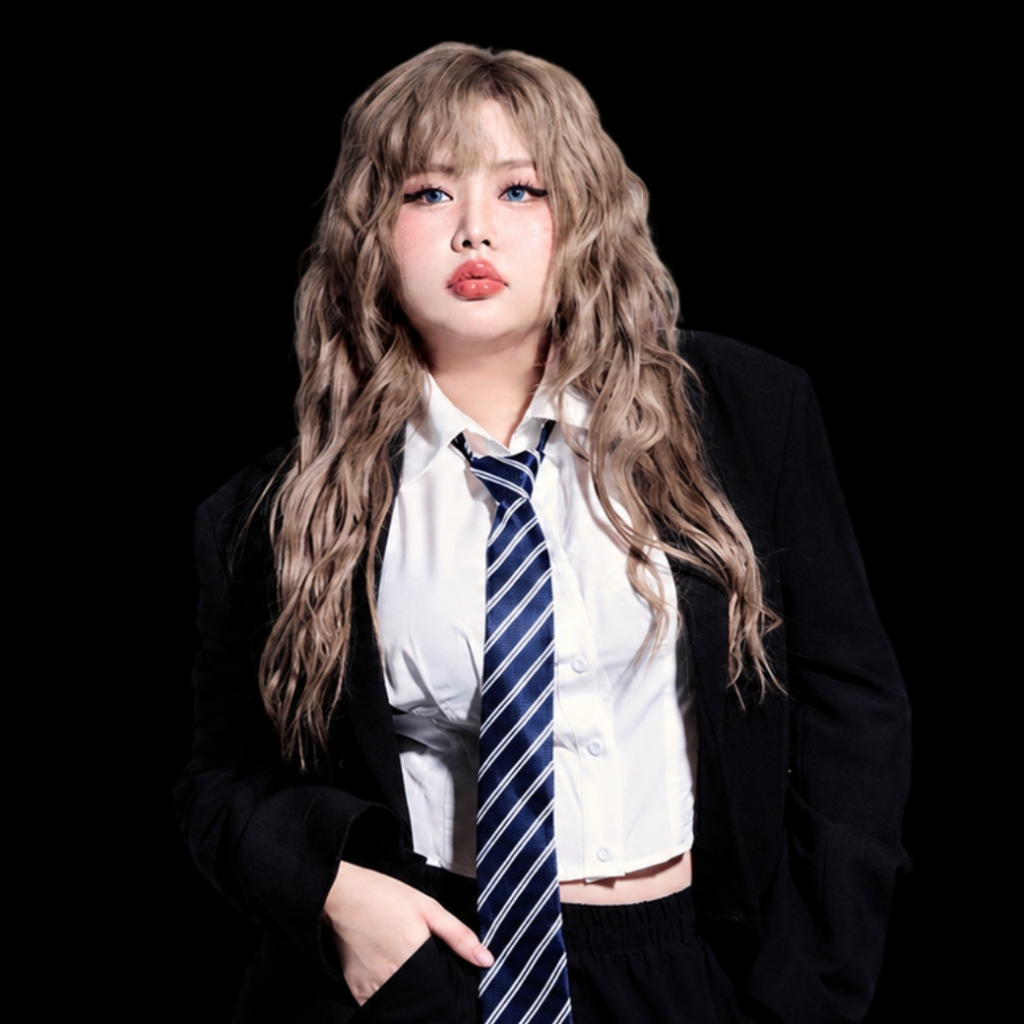
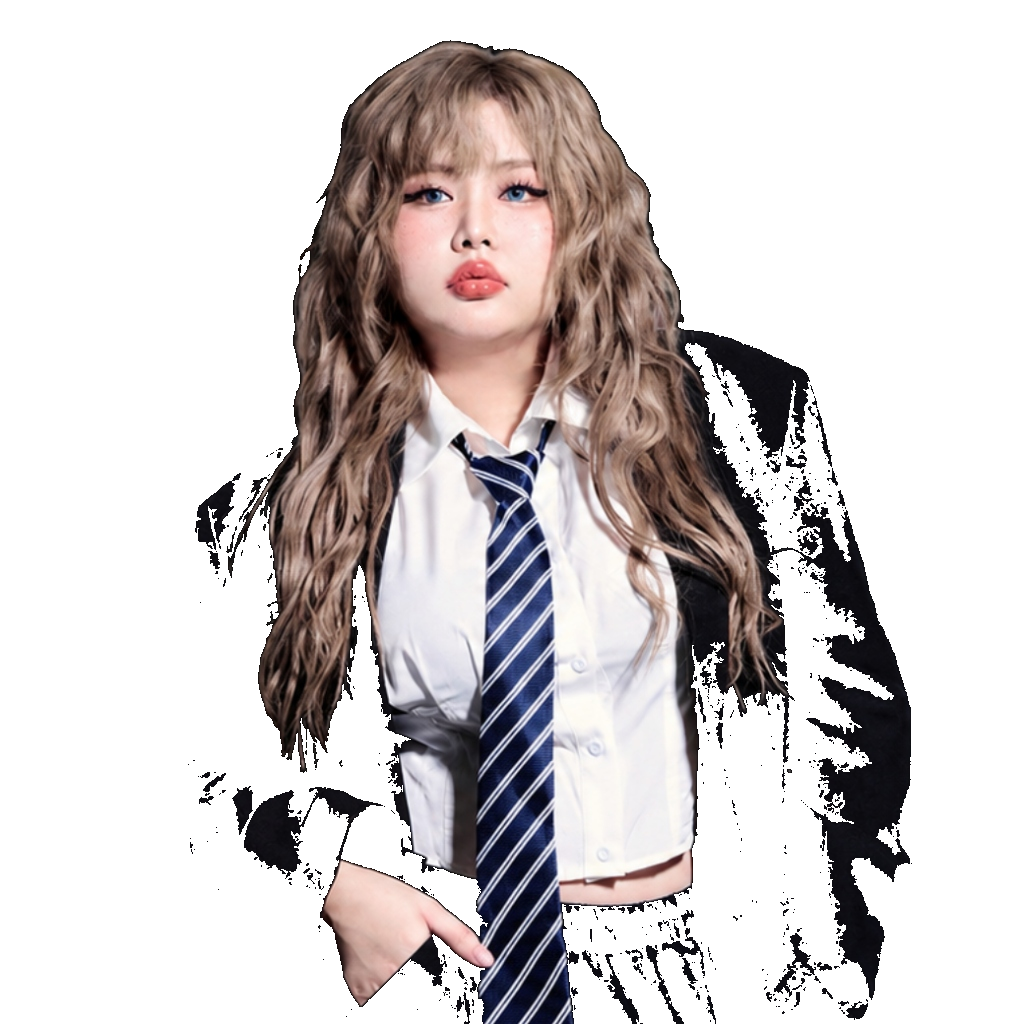
style: make Mod background transparent and bump cache-bust version

diff --git a/src/App.jsx b/src/App.jsx
@@ -179,63 +179,63 @@ const speakers = [
     name: 'คุณ ปฤณ จำเริญพานิช (อ้น)',
     role: 'AEIOU Solution',
     bio: 'กลยุทธ์การตลาดและ AI ที่ใช้ได้จริงสำหรับธุรกิจยุคใหม่',
-    image: '/speakers/speaker-an.png?v=3',
+    image: '/speakers/speaker-an.png?v=4',
     accent: 'from-rose-500 to-orange-400',
   },
   {
     name: 'คุณ ศรัณย์ แบ่งกุศลจิต (แอ้ม)',
     role: 'Uppercuz Creative',
     bio: 'สาย TikTok การตลาดคอนเทนต์ และระบบปิดการขายที่โตไว',
-    image: '/speakers/speaker-saran.png?v=3',
+    image: '/speakers/speaker-saran.png?v=4',
     accent: 'from-sky-500 to-cyan-400',
   },
   {
     name: 'ดร.กฤตินี พงษ์ธนเลิศ (อ.เกตุ)',
     role: 'เกตุวดี Marumura',
     bio: 'ปรัชญาการตลาดสไตล์ญี่ปุ่นที่เน้นความจริงใจ สร้างคุณค่าที่ยั่งยืน',
-    image: '/speakers/speaker-kritinee.png?v=3',
+    image: '/speakers/speaker-kritinee.png?v=4',
     accent: 'from-violet-500 to-fuchsia-400',
   },
   {
     name: 'คุณ กฤษ โฮสถาเลิศ (กฤษ)',
     role: 'Bigbrain & Marketmind',
     bio: 'ผลิตคลิป Short-form ครบวงจรด้วย AI ลงทั้ง TikTok, Reels, Shorts',
-    image: '/speakers/speaker-kris.png?v=3',
+    image: '/speakers/speaker-kris.png?v=4',
     accent: 'from-emerald-500 to-teal-400',
   },
   {
     name: 'คุณ นัทชา กาญจนจิตรา (ปอง)',
     role: 'Enkay Studio',
     bio: 'ผู้เชี่ยวชาญการใช้ AI สร้างภาพโฆษณาระดับสตูดิโอและ Visual Identity',
-    image: '/speakers/speaker-pong.png?v=3',
+    image: '/speakers/speaker-pong.png?v=4',
     accent: 'from-purple-500 to-pink-400',
   },
   {
     name: 'คุณ ศิริพงษ์ กลิ่นขจร (ไอซ์)',
     role: 'Nerd Optimize',
     bio: 'ผู้เชี่ยวชาญ GEO (Generative Engine Optimization) และ SEO ยุคใหม่',
-    image: '/speakers/speaker-ice.png?v=3',
+    image: '/speakers/speaker-ice.png?v=4',
     accent: 'from-blue-500 to-indigo-400',
   },
   {
     name: 'คุณ กชวรรณ สัจจา (มด)',
     role: 'แบรนด์ KAGE',
     bio: 'เจ้าของแบรนด์เครื่องสำอาง KAGE ที่โด่งดังด้วยการสร้างตัวตนและการตลาดออนไลน์',
-    image: '/speakers/speaker-mod.png?v=3',
+    image: '/speakers/speaker-mod.png?v=4',
     accent: 'from-rose-400 to-pink-500',
   },
   {
     name: 'คุณ รพีพงศ์ ปัญจคุณาธร (ซัน)',
     role: 'ห้างสรรพสินค้า สหไทย การ์เด้น พลาซ่า',
     bio: 'ผู้บริหารห้างสรรพสินค้ายุคใหม่ ผู้นำนวัตกรรมการตลาดดิจิทัลสู่ต่างจังหวัด',
-    image: '/speakers/speaker-sun.png?v=3',
+    image: '/speakers/speaker-sun.png?v=4',
     accent: 'from-amber-500 to-orange-500',
   },
   {
     name: 'คุณ พลภัทร ทรงรัตนจิตติ (ป๊อป)',
     role: 'Whale Ground',
     bio: 'ผู้ออกแบบ Product-Market Fit และการปรับปรุงบรรจุภัณฑ์เพื่อเจาะกลุ่มตลาดใหม่',
-    image: '/speakers/speaker-pop.png?v=3',
+    image: '/speakers/speaker-pop.png?v=4',
     accent: 'from-cyan-500 to-blue-500',
   },
 ];
